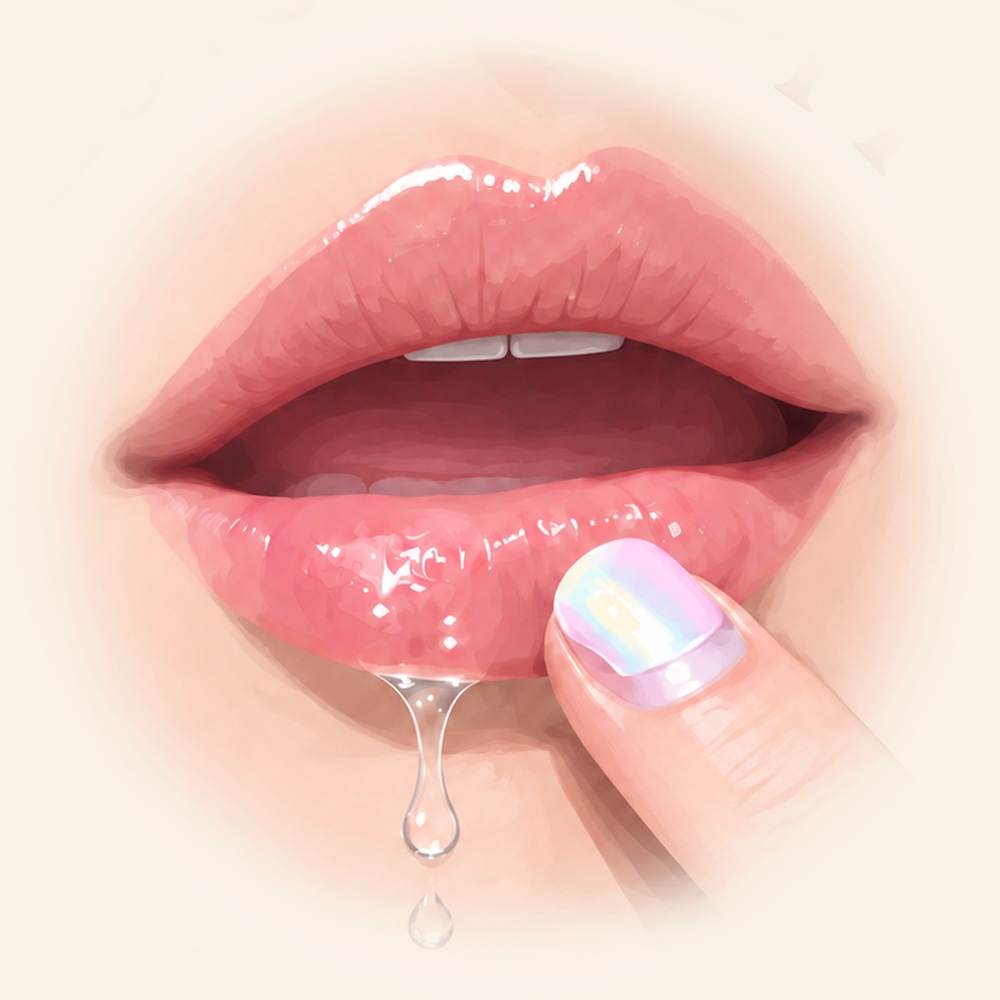
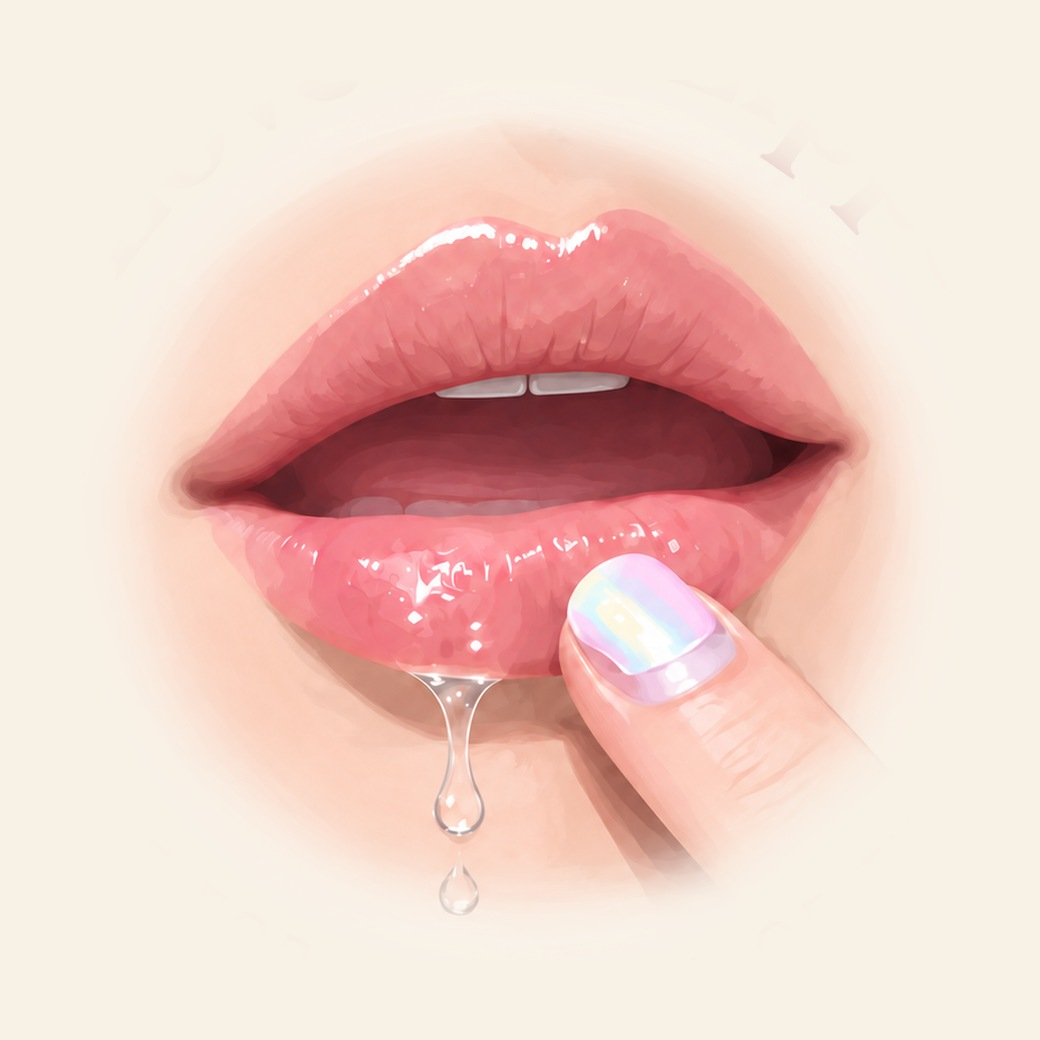
Illustrated hero sized and unmasked; fix aspect ratio

Changed region(s): [[0.062, 0.062, 0.93, 0.93], [0.744, 0.775, 0.806, 0.837], [0.093, 0.558, 0.124, 0.589]]

diff --git a/index.html b/index.html
@@ -25,9 +25,7 @@
   nav a{color:var(--ink);text-decoration:none;font-weight:600;font-size:16px}
   nav .cart{margin-left:auto;background:var(--kiss);color:var(--cream);padding:9px 20px;border-radius:999px;font-weight:700;font-size:15px;border:none;font-family:inherit;cursor:pointer}
   .hero{display:grid;grid-template-columns:1.02fr .98fr;gap:clamp(28px,5vw,70px);align-items:center;padding:clamp(24px,3.5vw,54px) 0 clamp(30px,4vw,54px)}
-  .hero img{width:100%;max-width:560px;
-    -webkit-mask-image:radial-gradient(ellipse 62% 62% at 50% 46%, #000 55%, transparent 78%);
-    mask-image:radial-gradient(ellipse 62% 62% at 50% 46%, #000 55%, transparent 78%)}
+  .hero img{width:100%;height:auto;max-width:600px;display:block;margin:0 auto}
   .hero h1{font-size:clamp(32px,4.3vw,54px);line-height:1.08;color:var(--kiss);text-wrap:balance}
   .sub{margin-top:12px;font-size:13px;font-weight:800;letter-spacing:.18em;text-transform:uppercase;color:var(--goldlight)}
   .copy{margin-top:14px;font-size:18px;max-width:46ch}
@@ -97,7 +95,7 @@
   footer .legal{margin-top:30px;font-size:13.5px;color:#8d8478}
   footer .legal a{display:inline;font-size:inherit;margin:0;color:#b9ae9f}
   footer .fine{margin-top:8px;font-size:13.5px;color:#8d8478}
-  @media (min-width:861px){.hero img{transform:translateY(40px)}}
+  
   @media (max-width:860px){.hero,.band,.duo{grid-template-columns:1fr}}
 
   /*FOOTER-CSS*/
@@ -138,7 +136,7 @@
 
 <!-- 1 · ATTENTION -->
 <header class="hero">
-  <img src="img/hero-illustrated.jpg" alt="Glossy lips with a clear drop — the LoveTheLipps mark" width="1000" height="1000">
+  <img src="img/hero-illustrated.jpg" alt="Glossy lips with a clear drop — the LoveTheLipps mark" width="1040" height="1040">
   <div>
     <h1>Made for Lipps.<br>All of them&nbsp;;)</h1>
     <p class="sub">Make restoration possible.</p>
